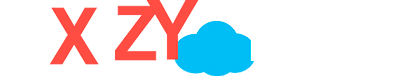
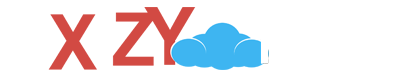
Images changed

Changed region(s): [[0.12, 0.0, 0.69, 1.0]]

diff --git a/index.html b/index.html
@@ -18,7 +18,7 @@
                 margin: 0;
                 padding: 0;
                 overflow: visible;
-                background: black;
+                background: #00001e;
                 font-family: Arial, Verdana, sans-serif;
                 line-height: 1;
                 text-transform: uppercase;
@@ -98,9 +98,11 @@
             #input_y {
               width: 1em;
             }
-            #input_z,
-            #input_cloud {
+            #input_z {
               width: 1.6em;
+            }
+            #input_cloud {
+              width: 2em;
             }
             #form .image {
               background: transparent url('hashtag.png') no-repeat top left;
@@ -139,8 +141,8 @@
 
           <div id="win" style="display: none">
             <h2>Ваше время <span id="yourtime"></span></h2>
-            <h3>Результат есть.<br />Сделай скриншот и опубликуй его в&nbsp;инстаграм с этим хештегом</h3>
-            <h1>#2015ARRULIT</h3>
+            <h3>Результат есть.<br />Сделай скриншот и опубликуй его<br />в&nbsp;INSTAGRAM и FACEBOOK<br />с этим хештегом</h3>
+            <h1>#2015RANRULIT</h3>
             <h3>И жди заслуженного приза!<br />Удачи!</h3>
           </div>
 
@@ -152,7 +154,7 @@
               И дату мероприятия
             </h3>
             <div class="image"></div>
-            <h1 class="inputs">#0<input type="text" autofocus="true" inputmode="numeric" pattern="[0-9]*" id="input_x" maxlength="1" tabIndex="1" />0<input type="text" inputmode="numeric" pattern="[0-9]*" id="input_y" maxlength="1" tabIndex="2" /><input type="text" inputmode="numeric" pattern="[0-9]*" id="input_z" maxlength="2" tabIndex="3" /><input type="text" id="input_cloud" maxlength="2" tabIndex="4" />RULIT</h1>
+            <h1 class="inputs">#0<input type="text" autofocus="true" inputmode="numeric" pattern="[0-9]*" id="input_x" maxlength="1" tabIndex="1" />0<input type="text" inputmode="numeric" pattern="[0-9]*" id="input_y" maxlength="1" tabIndex="2" /><input type="text" inputmode="numeric" pattern="[0-9]*" id="input_z" maxlength="2" tabIndex="3" /><input type="text" id="input_cloud" maxlength="3" tabIndex="4" />RULIT</h1>
             <button>Проверить</button>
           </div>
 
@@ -700,6 +702,7 @@
                         $('#yourtime').html(currentTimeString);
                         canvasObj.hide();
                         $('#form').fadeIn().css('display', 'table-cell');
+                        $('#form input').val('');
 
                         $('#form input').on('input', function () {
                           var $nextInput = $('[tabindex="' + (this.tabIndex + 1) +'"]');
@@ -714,7 +717,7 @@
                           var input_z = $('#input_z').val();
                           var input_cloud = $('#input_cloud').val().toUpperCase();
 
-                          if (input_x == 4 && input_y == 9 && input_z == 15 && input_cloud == 'AR')
+                          if (input_x == 4 && input_y == 9 && input_z == 15 && input_cloud == 'RAN')
                             $('#form').fadeOut({
                               complete: function() {
                                 $('#true').fadeIn();
@@ -1004,7 +1007,7 @@
                           splashInterval = setInterval(renderSplashFrame, 30);
                           // initFinish();
                       };
-                      spritesheet.src = "spritesheet.high.2.png";
+                      spritesheet.src = "spritesheet.high.3.png";
                   }
               }
           }());
